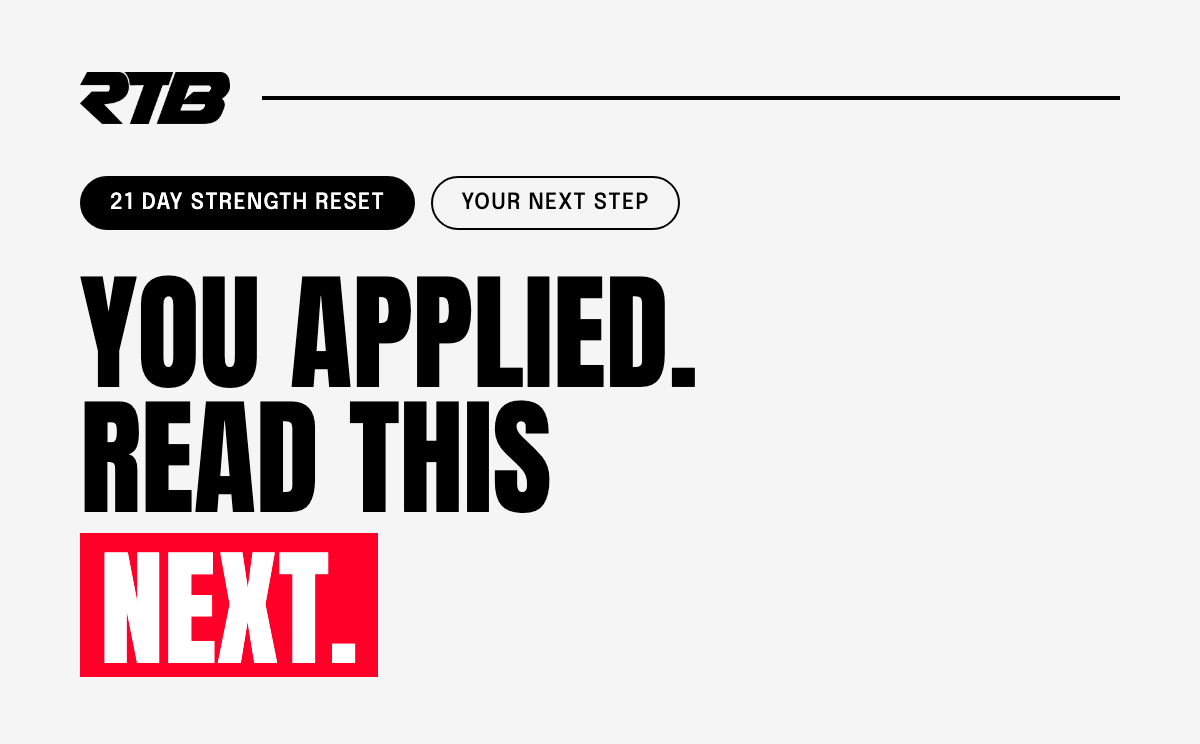
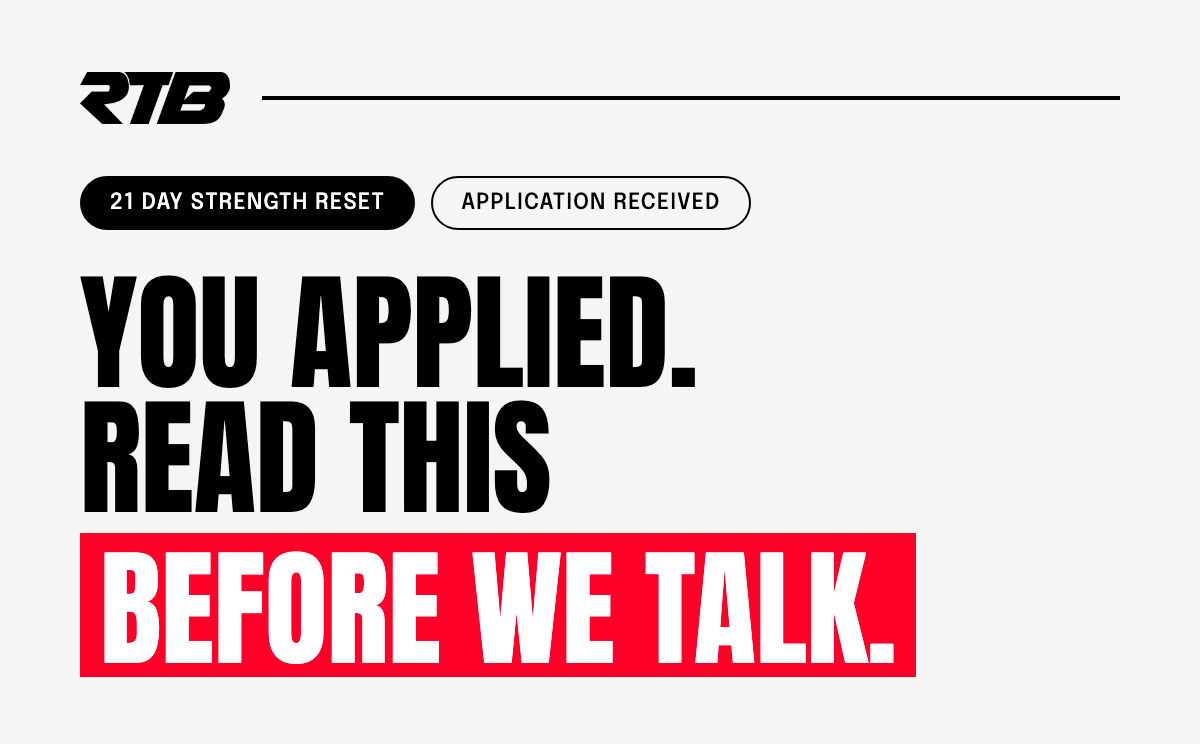
Guide email: instant on application

Changed region(s): [[0.0925, 0.711, 0.7708, 0.9274], [0.37, 0.2164, 0.6167, 0.3091]]

diff --git a/docs/guide/email-applied.html b/docs/guide/email-applied.html
@@ -4,7 +4,7 @@
 <meta charset="utf-8">
 <meta name="viewport" content="width=device-width, initial-scale=1">
 <meta name="x-apple-disable-message-reformatting">
-<title>You applied. Read this next.</title>
+<title>You applied. Read this before we talk.</title>
 <link href="https://fonts.googleapis.com/css2?family=Anton&family=Epilogue:wght@400;500;600&display=swap" rel="stylesheet">
 <style>
 body{margin:0;padding:0;background:#F5F5F5}
@@ -15,12 +15,12 @@ a{color:#000}
 </style>
 </head>
 <body style="margin:0;padding:0;background:#F5F5F5;">
-<div style="display:none;max-height:0;overflow:hidden;opacity:0;">A six minute guide on why we ditched cardio. Then grab a call time when you are ready.</div>
+<div style="display:none;max-height:0;overflow:hidden;opacity:0;">A six minute guide on why we ditched cardio. Then grab a call time.</div>
 <table role="presentation" width="100%" cellpadding="0" cellspacing="0" border="0" style="background:#F5F5F5;">
 <tr><td align="center" style="padding:0;">
 <table role="presentation" class="container" width="600" cellpadding="0" cellspacing="0" border="0" style="width:600px;max-width:600px;background:#F5F5F5;">
-<tr><td style="padding:0;"><img src="https://rtbgym.com.au/img/email/n-GA-header.png" width="600" alt="You applied. Read this next." style="display:block;width:100%;max-width:600px;height:auto;border:0;"></td></tr>
-<tr><td class="pad body" style="padding:8px 40px 0;font-family:'Epilogue',Helvetica,Arial,sans-serif;font-size:17px;line-height:1.6;color:#111111;"><p style="margin:0 0 18px;">Hi {{contact.first_name}},</p><p style="margin:0 0 18px;">You applied for the 21 Day Strength Reset yesterday but have not grabbed a call time yet. No drama.</p><p style="margin:0 0 18px;">Most people want to know what they are walking into first. So I wrote it down. A short guide on why we train the way we do at RTB, and what it means for your body over the next 20 years. Six minutes.</p><p style="margin:0 0 26px;font-weight:600;color:#000;">Here is what is in it.</p></td></tr><tr><td class="pad" style="padding:0px 40px 0;"><table role="presentation" width="100%" cellpadding="0" cellspacing="0" border="0"><tr><td style="background:#FFFFFF;border:1px solid #D9D9D9;padding:22px 24px;"><div class="body" style="font-family:'Epilogue',Helvetica,Arial,sans-serif;font-size:12px;font-weight:500;letter-spacing:.08em;text-transform:uppercase;color:#FF0028;">Page 3</div><div class="anton h2" style="font-family:'Anton',Impact,'Arial Narrow Bold',sans-serif;font-weight:400;text-transform:uppercase;font-size:34px;line-height:1;color:#000;margin:8px 0 10px;">The science, short and sharp</div><div class="body" style="font-family:'Epilogue',Helvetica,Arial,sans-serif;font-size:16px;line-height:1.6;color:#111111;">Four numbers that explain why muscle beats cardio for fat loss, energy and how well you age. Every one comes from a real study, cited on the last page.</div></td></tr><tr><td style="height:12px;line-height:12px;font-size:0;">&nbsp;</td></tr><tr><td style="background:#FFFFFF;border:1px solid #D9D9D9;padding:22px 24px;"><div class="body" style="font-family:'Epilogue',Helvetica,Arial,sans-serif;font-size:12px;font-weight:500;letter-spacing:.08em;text-transform:uppercase;color:#FF0028;">Pages 4 to 6</div><div class="anton h2" style="font-family:'Anton',Impact,'Arial Narrow Bold',sans-serif;font-weight:400;text-transform:uppercase;font-size:34px;line-height:1;color:#000;margin:8px 0 10px;">Your decade</div><div class="body" style="font-family:'Epilogue',Helvetica,Arial,sans-serif;font-size:16px;line-height:1.6;color:#111111;">Women in their 30s. Women 40 to 55. Men over 30. What changes in your body, and exactly why lifting fixes it.</div></td></tr><tr><td style="height:12px;line-height:12px;font-size:0;">&nbsp;</td></tr><tr><td style="background:#FFFFFF;border:1px solid #D9D9D9;padding:22px 24px;"><div class="body" style="font-family:'Epilogue',Helvetica,Arial,sans-serif;font-size:12px;font-weight:500;letter-spacing:.08em;text-transform:uppercase;color:#FF0028;">Pages 14 to 17</div><div class="anton h2" style="font-family:'Anton',Impact,'Arial Narrow Bold',sans-serif;font-weight:400;text-transform:uppercase;font-size:34px;line-height:1;color:#000;margin:8px 0 10px;">Real members, real numbers</div><div class="body" style="font-family:'Epilogue',Helvetica,Arial,sans-serif;font-size:16px;line-height:1.6;color:#111111;">15 before and afters and 24 Google reviews from Windsor and Chelsea Heights. Zero cardio in any of them.</div></td></tr></table></td></tr><tr><td class="pad" style="padding:0 40px;" align="left"><table role="presentation" cellpadding="0" cellspacing="0" border="0"><tr><td style="background:#000000;border-radius:300px;"><a href="https://rtbgym.com.au/guide/rtb-guide.pdf?utm_source=grow&amp;utm_medium=email&amp;utm_campaign=guide&amp;utm_content=applied" style="display:inline-block;padding:16px 34px;font-family:'Epilogue',Helvetica,Arial,sans-serif;font-size:16px;font-weight:500;letter-spacing:.02em;text-transform:uppercase;color:#FFFFFF;text-decoration:none;border-radius:300px;">Read the guide &rarr;</a></td></tr></table></td></tr><tr><td class="pad" style="padding:28px 40px 0;"><img src="https://rtbgym.com.au/img/email/n-josh-arms2.jpg" width="520" alt="Coach Josh at RTB" style="display:block;width:100%;max-width:520px;height:auto;border:0;"><table role="presentation" width="100%" cellpadding="0" cellspacing="0" border="0"><tr><td style="background:#FFFFFF;border:1px solid #D9D9D9;border-top:0;padding:16px 20px;"><div class="body" style="font-family:'Epilogue',Helvetica,Arial,sans-serif;font-size:11px;font-weight:500;letter-spacing:.08em;text-transform:uppercase;color:#797979;">Coach Josh</div><div class="anton" style="font-family:'Anton',Impact,'Arial Narrow Bold',sans-serif;font-weight:400;text-transform:uppercase;font-size:24px;line-height:1.05;color:#000;margin-top:4px;">Capped at 12. A coach on every set.</div></td></tr></table></td></tr><tr><td class="pad body" style="padding:28px 40px 0;font-family:'Epilogue',Helvetica,Arial,sans-serif;font-size:17px;line-height:1.6;color:#111111;"><p style="margin:0 0 18px;">When you are ready, the next step is a free 15 minute call with me. We work out where your body is now, where it needs to be, and how to get there. No lock in, no sales script.</p><p style="margin:0 0 26px;">Pick a time that suits you below.</p></td></tr><tr><td class="pad" style="padding:0 40px;" align="left"><table role="presentation" cellpadding="0" cellspacing="0" border="0"><tr><td style="background:#000000;border-radius:300px;"><a href="https://grow-api.hapana.com/widget/booking/8KzUE6BBWRni8g9f0wd5" style="display:inline-block;padding:16px 34px;font-family:'Epilogue',Helvetica,Arial,sans-serif;font-size:16px;font-weight:500;letter-spacing:.02em;text-transform:uppercase;color:#FFFFFF;text-decoration:none;border-radius:300px;">Book my free call &rarr;</a></td></tr></table></td></tr><tr><td class="pad body" style="padding:26px 40px 0;font-family:'Epilogue',Helvetica,Arial,sans-serif;font-size:17px;line-height:1.6;color:#111111;"><p style="margin:0 0 26px;">Or just reply to this email and tell me what is holding you back. I read every one.</p></td></tr><tr><td class="pad body" style="padding:30px 40px 0;font-family:'Epilogue',Helvetica,Arial,sans-serif;font-size:17px;line-height:1.6;color:#111111;"><p style="margin:0;">Josh</p><p style="margin:0;color:#797979;font-size:14px;">Head Coach, RTB</p></td></tr>
+<tr><td style="padding:0;"><img src="https://rtbgym.com.au/img/email/n-GA-header.png" width="600" alt="You applied. Read this before we talk." style="display:block;width:100%;max-width:600px;height:auto;border:0;"></td></tr>
+<tr><td class="pad body" style="padding:8px 40px 0;font-family:'Epilogue',Helvetica,Arial,sans-serif;font-size:17px;line-height:1.6;color:#111111;"><p style="margin:0 0 18px;">Hi {{contact.first_name}},</p><p style="margin:0 0 18px;">Thanks for applying for the 21 Day Strength Reset. Your application is in, and I read every one myself before we talk.</p><p style="margin:0 0 18px;">While you are picking a call time, read this. It is a short guide I wrote on why we train the way we do at RTB, and what it means for your body over the next 20 years. Six minutes.</p><p style="margin:0 0 26px;font-weight:600;color:#000;">Here is what is in it.</p></td></tr><tr><td class="pad" style="padding:0px 40px 0;"><table role="presentation" width="100%" cellpadding="0" cellspacing="0" border="0"><tr><td style="background:#FFFFFF;border:1px solid #D9D9D9;padding:22px 24px;"><div class="body" style="font-family:'Epilogue',Helvetica,Arial,sans-serif;font-size:12px;font-weight:500;letter-spacing:.08em;text-transform:uppercase;color:#FF0028;">Page 3</div><div class="anton h2" style="font-family:'Anton',Impact,'Arial Narrow Bold',sans-serif;font-weight:400;text-transform:uppercase;font-size:34px;line-height:1;color:#000;margin:8px 0 10px;">The science, short and sharp</div><div class="body" style="font-family:'Epilogue',Helvetica,Arial,sans-serif;font-size:16px;line-height:1.6;color:#111111;">Four numbers that explain why muscle beats cardio for fat loss, energy and how well you age. Every one comes from a real study, cited on the last page.</div></td></tr><tr><td style="height:12px;line-height:12px;font-size:0;">&nbsp;</td></tr><tr><td style="background:#FFFFFF;border:1px solid #D9D9D9;padding:22px 24px;"><div class="body" style="font-family:'Epilogue',Helvetica,Arial,sans-serif;font-size:12px;font-weight:500;letter-spacing:.08em;text-transform:uppercase;color:#FF0028;">Pages 4 to 6</div><div class="anton h2" style="font-family:'Anton',Impact,'Arial Narrow Bold',sans-serif;font-weight:400;text-transform:uppercase;font-size:34px;line-height:1;color:#000;margin:8px 0 10px;">Your decade</div><div class="body" style="font-family:'Epilogue',Helvetica,Arial,sans-serif;font-size:16px;line-height:1.6;color:#111111;">Women in their 30s. Women 40 to 55. Men over 30. What changes in your body, and exactly why lifting fixes it.</div></td></tr><tr><td style="height:12px;line-height:12px;font-size:0;">&nbsp;</td></tr><tr><td style="background:#FFFFFF;border:1px solid #D9D9D9;padding:22px 24px;"><div class="body" style="font-family:'Epilogue',Helvetica,Arial,sans-serif;font-size:12px;font-weight:500;letter-spacing:.08em;text-transform:uppercase;color:#FF0028;">Pages 14 to 17</div><div class="anton h2" style="font-family:'Anton',Impact,'Arial Narrow Bold',sans-serif;font-weight:400;text-transform:uppercase;font-size:34px;line-height:1;color:#000;margin:8px 0 10px;">Real members, real numbers</div><div class="body" style="font-family:'Epilogue',Helvetica,Arial,sans-serif;font-size:16px;line-height:1.6;color:#111111;">15 before and afters and 24 Google reviews from Windsor and Chelsea Heights. Zero cardio in any of them.</div></td></tr></table></td></tr><tr><td class="pad" style="padding:0 40px;" align="left"><table role="presentation" cellpadding="0" cellspacing="0" border="0"><tr><td style="background:#000000;border-radius:300px;"><a href="https://rtbgym.com.au/guide/rtb-guide.pdf?utm_source=grow&amp;utm_medium=email&amp;utm_campaign=guide&amp;utm_content=applied" style="display:inline-block;padding:16px 34px;font-family:'Epilogue',Helvetica,Arial,sans-serif;font-size:16px;font-weight:500;letter-spacing:.02em;text-transform:uppercase;color:#FFFFFF;text-decoration:none;border-radius:300px;">Read the guide &rarr;</a></td></tr></table></td></tr><tr><td class="pad" style="padding:28px 40px 0;"><img src="https://rtbgym.com.au/img/email/n-josh-arms2.jpg" width="520" alt="Coach Josh at RTB" style="display:block;width:100%;max-width:520px;height:auto;border:0;"><table role="presentation" width="100%" cellpadding="0" cellspacing="0" border="0"><tr><td style="background:#FFFFFF;border:1px solid #D9D9D9;border-top:0;padding:16px 20px;"><div class="body" style="font-family:'Epilogue',Helvetica,Arial,sans-serif;font-size:11px;font-weight:500;letter-spacing:.08em;text-transform:uppercase;color:#797979;">Coach Josh</div><div class="anton" style="font-family:'Anton',Impact,'Arial Narrow Bold',sans-serif;font-weight:400;text-transform:uppercase;font-size:24px;line-height:1.05;color:#000;margin-top:4px;">Capped at 12. A coach on every set.</div></td></tr></table></td></tr><tr><td class="pad body" style="padding:28px 40px 0;font-family:'Epilogue',Helvetica,Arial,sans-serif;font-size:17px;line-height:1.6;color:#111111;"><p style="margin:0 0 18px;">The next step is a free 15 minute call with me. We work out where your body is now, where it needs to be, and how to get there. No lock in, no sales script.</p><p style="margin:0 0 26px;">If you have not picked a time yet, grab one below.</p></td></tr><tr><td class="pad" style="padding:0 40px;" align="left"><table role="presentation" cellpadding="0" cellspacing="0" border="0"><tr><td style="background:#000000;border-radius:300px;"><a href="https://grow-api.hapana.com/widget/booking/8KzUE6BBWRni8g9f0wd5" style="display:inline-block;padding:16px 34px;font-family:'Epilogue',Helvetica,Arial,sans-serif;font-size:16px;font-weight:500;letter-spacing:.02em;text-transform:uppercase;color:#FFFFFF;text-decoration:none;border-radius:300px;">Book my free call &rarr;</a></td></tr></table></td></tr><tr><td class="pad body" style="padding:26px 40px 0;font-family:'Epilogue',Helvetica,Arial,sans-serif;font-size:17px;line-height:1.6;color:#111111;"><p style="margin:0 0 26px;">Or just reply to this email and tell me what is holding you back. I read every one.</p></td></tr><tr><td class="pad body" style="padding:30px 40px 0;font-family:'Epilogue',Helvetica,Arial,sans-serif;font-size:17px;line-height:1.6;color:#111111;"><p style="margin:0;">Josh</p><p style="margin:0;color:#797979;font-size:14px;">Head Coach, RTB</p></td></tr>
 <tr><td class="pad" style="padding:36px 40px 40px;"><table role="presentation" width="100%" cellpadding="0" cellspacing="0" border="0"><tr><td style="border-top:2px solid #000;padding-top:18px;font-family:'Epilogue',Helvetica,Arial,sans-serif;font-size:12px;line-height:1.6;color:#797979;">RTB Gym &middot; Windsor and Chelsea Heights<br>You're getting this because you applied for the 21 Day Strength Reset.</td></tr></table></td></tr>
 </table>
 </td></tr>
